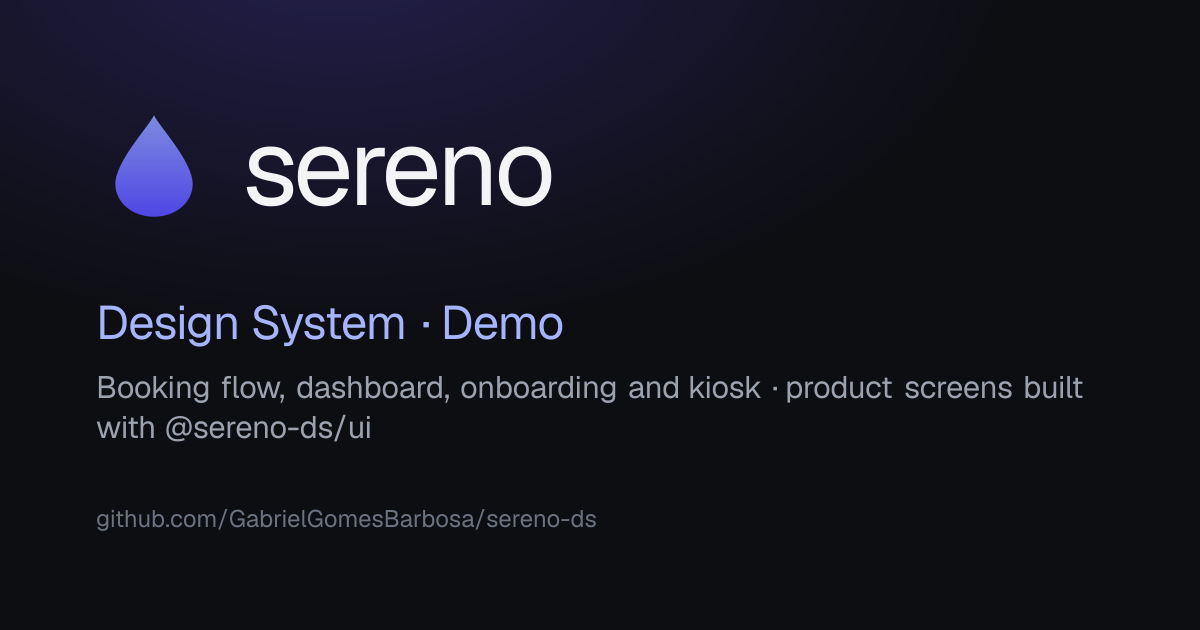
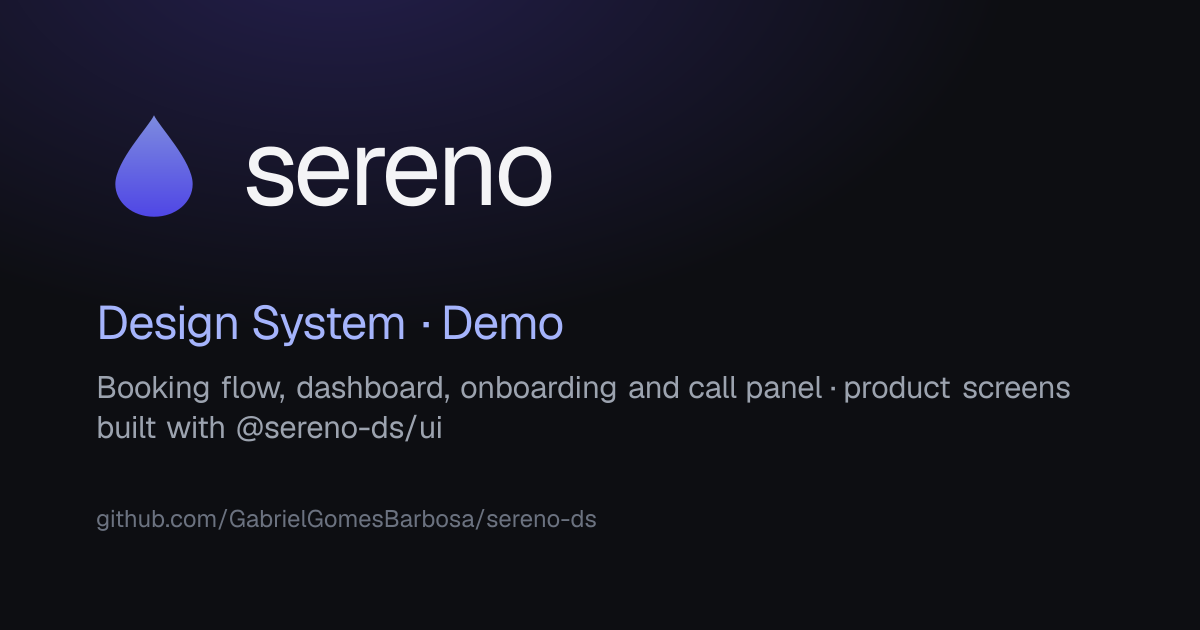
docs: the demo has four screens, the fourth is the waiting-room call panel (SS-583) (#134)
The docs home ("See the app" card), the root README (intro, apps table, repository tree, mock.ts line) and the
mock.ts header comment still said three screens. They now say four and name the fourth: the waiting-room call
panel at /kiosk (CheckInKiosk), which nobody touches and which shows no client-identifying data.

SS-582 had named that screen "kiosk" / "reception kiosk" in the demo meta description and the share card,
copied from the demo hero. It is not a check-in kiosk (the check-in happens elsewhere), so the hero, the meta
description and the share-card tagline (generator + regenerated PNG) now say "call panel" / "waiting-room call
panel", like the demo's own card does. The README also pointed at a "/demo" hub that does not exist: it is "/".

No package changes, so no changeset.

Changed region(s): [[0.555, 0.6032, 0.925, 0.6333], [0.0617, 0.6635, 0.37, 0.6937]]

diff --git a/apps/demo/app/page.tsx b/apps/demo/app/page.tsx
@@ -105,7 +105,7 @@ export default function DemoHome() {
             The Sereno app, built on the Design System.
           </Typography>
           <Typography variant="body" color="secondary" style={{ fontSize: 'var(--text-lg)', lineHeight: 1.6, maxWidth: 520 }}>
-            Four real product screens (a public booking flow, the professional dashboard, onboarding and a reception kiosk) assembled from{' '}
+            Four real product screens (a public booking flow, the professional dashboard, onboarding and a waiting-room call panel) assembled from{' '}
             <code style={{ fontFamily: 'var(--font-mono)', fontSize: '0.85em', padding: '0.12em 0.4em', borderRadius: 'var(--radius-sm)', background: 'var(--bg-subtle)' }}>@sereno-ds/ui</code>{' '}
             primitives and navigable end to end on mocked data.
           </Typography>

diff --git a/apps/demo/app/layout.tsx b/apps/demo/app/layout.tsx
@@ -19,7 +19,7 @@ const SITE = process.env.NEXT_PUBLIC_DEMO_URL ?? 'http://localhost:3002';
 // the screens render pt-BR mock content, but the app identity is the DS.
 const TITLE = 'Sereno Design System: demo';
 const DESCRIPTION =
-  'Demo screens of the Sereno Design System: the booking flow, professional dashboard, onboarding and reception kiosk, built with @sereno-ds/ui and navigable on mocked data.';
+  'Demo screens of the Sereno Design System: the booking flow, professional dashboard, onboarding and waiting-room call panel, built with @sereno-ds/ui and navigable on mocked data.';
 
 export const metadata: Metadata = {
   metadataBase: new URL(SITE),

diff --git a/apps/docs/app/page.tsx b/apps/docs/app/page.tsx
@@ -248,7 +248,7 @@ export default function Home() {
                 See the app <ExternalLink size={15} strokeWidth={2} style={{ color: 'var(--text-muted)' }} />
               </Typography>
               <Typography variant="bodySm" style={{ lineHeight: 1.55 }}>
-                The three real screens (public booking flow, professional dashboard and onboarding) built from these primitives, on mocked data.
+                The four real screens (public booking flow, professional dashboard, onboarding and a waiting-room call panel) built from these primitives, on mocked data.
               </Typography>
             </Card>
           </a>

diff --git a/apps/demo/src/lib/mock.ts b/apps/demo/src/lib/mock.ts
@@ -1,4 +1,4 @@
-// Mock data for the three product screens. No backend in this phase (SS-39 §8) -
+// Mock data for the four product screens. No backend in this phase (SS-39 §8) -
 // every screen reads from here. Copy tuned to the DS content rules: sentence case,
 // 24h times, "R$ 180" with a non-breaking space, closed status vocabulary.
 

diff --git a/README.md b/README.md
@@ -31,7 +31,7 @@ no UI base library, one live preview per component.
 
 The visual / front-end layer of **Sereno**, a scheduling platform for independent
 health & beauty professionals in Brazil: the Design System, a navigable showcase,
-and three real product screens on mocked data, no backend, everything static.
+and four real product screens on mocked data, no backend, everything static.
 
 ## Workspaces
 
@@ -42,7 +42,7 @@ npm workspaces + Turborepo.
 | `packages/tokens` | [`@sereno-ds/tokens`](https://www.npmjs.com/package/@sereno-ds/tokens) | the token layer: `*.css` (light × dark) + a `tokens.css` barrel |
 | `packages/ui` | [`@sereno-ds/ui`](https://www.npmjs.com/package/@sereno-ds/ui) | **37 React primitives** + `src/styles.css` + `_internal/` + `theme/` (`ThemeProvider` / `ThemeToggle`), token-driven inline styles, native dark mode, no Radix / MUI / Tailwind |
 | `apps/docs` | [`docs`](https://docs-production-2f40.up.railway.app) | the `/design-system` showcase (Next 16, `output: 'export'`). MUI-doc-style page per component: live preview, "show code", Do / Don't, "on this page" rail, prev/next, versioned header |
-| `apps/demo` | [`demo`](https://demo-production-bfd0.up.railway.app) | `/demo` hub + `/agendar/[slug]` (public booking) + `/dashboard/[[...slug]]` + `/onboarding` + `src/screens/` + `src/lib/mock.ts`, fully responsive, components reflow |
+| `apps/demo` | [`demo`](https://demo-production-bfd0.up.railway.app) | `/` hub + `/agendar/[slug]` (public booking) + `/dashboard/[[...slug]]` + `/onboarding` + `/kiosk` (waiting-room call panel) + `src/screens/` + `src/lib/mock.ts`, fully responsive, components reflow |
 
 - **`@sereno-ds/ui` and `@sereno-ds/tokens` are real packages.** `@sereno-ds/ui` is compiled
   with `tsup` into `packages/ui/dist` (one file per module, each keeps its own `'use client'`,
@@ -204,10 +204,10 @@ apps/
     playwright.config.ts   projects light / dark / mobile, no visible pixel difference allowed
     src/design-system/     catalog.ts + catalog/<slug>.ts, demos.tsx + demos/<slug>.tsx (one file per component), ComponentView, DocPage, Sidebar (+ its search: sidebarSearch.ts), Shell, version.ts + CHANGELOG.md
   demo/
-    app/                   layout.tsx, globals.css, agendar/[slug]/, dashboard/, onboarding/, robots.ts, sitemap.ts
-    src/screens/           BookingFlow, Onboarding, Dashboard/ (one file per view)
+    app/                   layout.tsx, globals.css, agendar/[slug]/, dashboard/, onboarding/, kiosk/, robots.ts, sitemap.ts
+    src/screens/           BookingFlow, Onboarding, CheckInKiosk (the waiting-room call panel), Dashboard/ (one file per view)
     src/domain/            ServiceCard, ProfessionalCard, AppointmentCard, WeeklyScheduleEditor - product cards built on @sereno-ds/ui
-    src/lib/mock.ts        mocked data for the 3 screens
+    src/lib/mock.ts        mocked data for the 4 screens
 fonts/                     Inter, Manrope, JetBrains Mono (latin, variable woff2) + their OFL licenses; the apps load them with next/font/local
 docs/                      deploy.md (Railway), testing.md (the testing guide), SS-157-demo-to-ds-audit.md
 scripts/                   check-no-em-dash, generate-design-system-docs, generate-brand-images, visual.sh (the Docker runner of the pixel tests)
